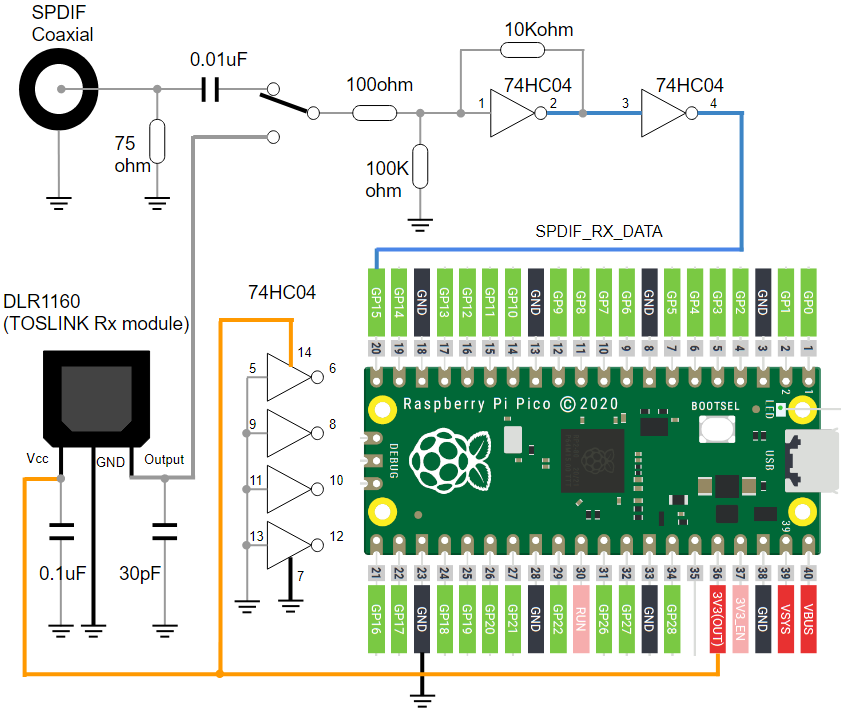
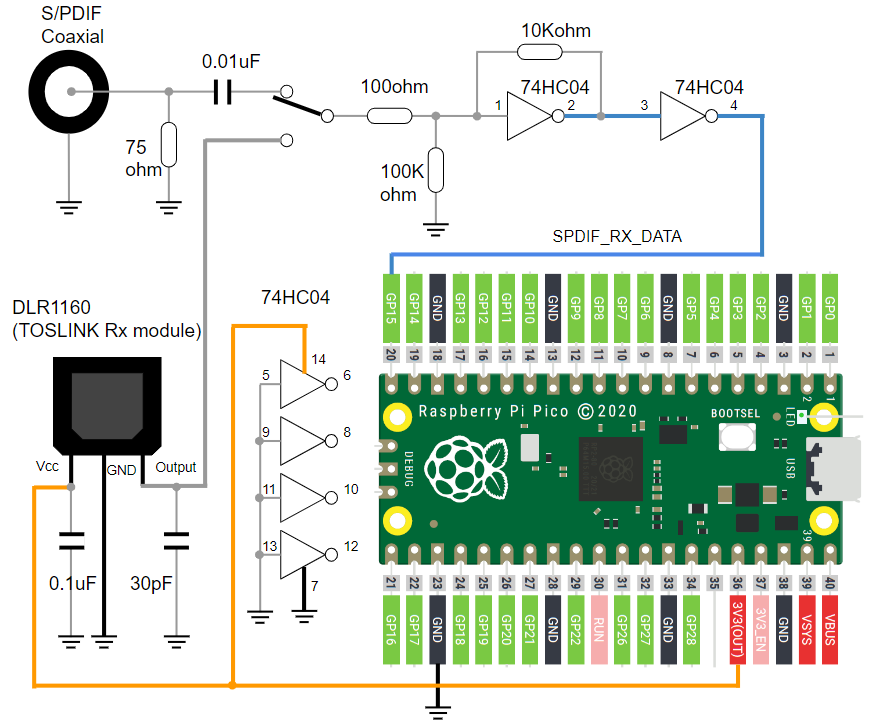
revise to S/PDIF on README etc

Changed region(s): [[0.0, 0.0, 1.0, 1.0]]

diff --git a/spdif_rx.h b/spdif_rx.h
@@ -74,14 +74,14 @@ typedef enum _spdif_rx_state_t  {
 #define SPDIF_RX_FIFO_SIZE (NUM_BLOCKS * SPDIF_BLOCK_SIZE)
 
 /**
-* start SPDIF
+* start S/PDIF receiver
 *
 * @param[in] config configulation by spdif_rx_config_t
 */
 void spdif_rx_start(const spdif_rx_config_t* config);
 
 /**
-* end SPDIF
+* end S/PDIF receiver
 */
 void spdif_rx_end();
 

diff --git a/README.md b/README.md
@@ -1,20 +1,20 @@
-# Raspberry Pi Pico spdif_rx
+# Raspberry Pi Pico S/PDIF receiver library
 
 ## Overview
-* SPDIF receiver by rp2040 PIO function
+* S/PDIF receiver by rp2040 PIO function
 * format: 2ch, 16bit or 24bit
 * sampling frequency: 44.1 KHz, 48.0 KHz, 88.2 KHz, 96.0 KHz, 176.4 KHz, 192.0 KHz
 * signal detecting function for all supported sampling frequencies
 
 ## Supported Board and Peripheral Devices
 * Raspberry Pi Pico (rp2040)
-* SPDIF Coaxial or TOSLINK Rx module (DLR1160 or equivalent)
+* S/PDIF Coaxial or TOSLINK Rx module (DLR1160 or equivalent)
 
 ## Pin Assignment & Connection
-### SPDIF Rx
+### S/PDIF Rx
 | Pico Pin # | GPIO | Function | Connection |
 ----|----|----|----
-| 20 | GP15 | DATA | from SPDIF data |
+| 20 | GP15 | DATA | from S/PDIF data |
 
 ![SPDIF_Rx_Schematic](doc/SPDIF_Rx_Schematic.png)
 
@@ -62,12 +62,12 @@ $ make -j4
 * Download "xxxxx.uf2" on RPI-RP2 drive
 
 ## Decode output format
-* 32bit output for each SPDIF sub frame including header, audio data, AUX, VUCP
+* 32bit output for each S/PDIF sub frame including header, audio data, AUX, VUCP
 * see comments in [spdif_rx.pio](spdif_rx.pio) for further detail
 
 ## Sample projects
 ### detect_samp_freq
-* display sampling frequency, C bits of SPDIF frame and number of parity errors while decoding
+* display sampling frequency, C bits of S/PDIF frame and number of parity errors while decoding
 
 ### spdif_to_i2s_32b
-* convert SPDIF input to I2S 32bit output
+* convert S/PDIF input to I2S 32bit output

diff --git a/samples/spdif_to_i2s_32b/README.md b/samples/spdif_to_i2s_32b/README.md
@@ -1,11 +1,11 @@
-# Raspberry Pi Pico spdif_rx
+# Raspberry Pi Pico S/PDIF receiver library
 
 ## spdif_to_i2s_32b Project
-* convert SPDIF input to I2S 32bit
+* convert S/PDIF input to I2S 32bit
 
 ## Supported Board and Peripheral Devices
 * Raspberry Pi Pico (rp2040)
-* SPDIF Coaxial or TOSLINK (RX178A or equivalent) receiver
+* S/PDIF Coaxial or TOSLINK (RX178A or equivalent) receiver
 * PCM5102 (spdif_to_i2s_32 project only)
 
 ## Pin Assignment
